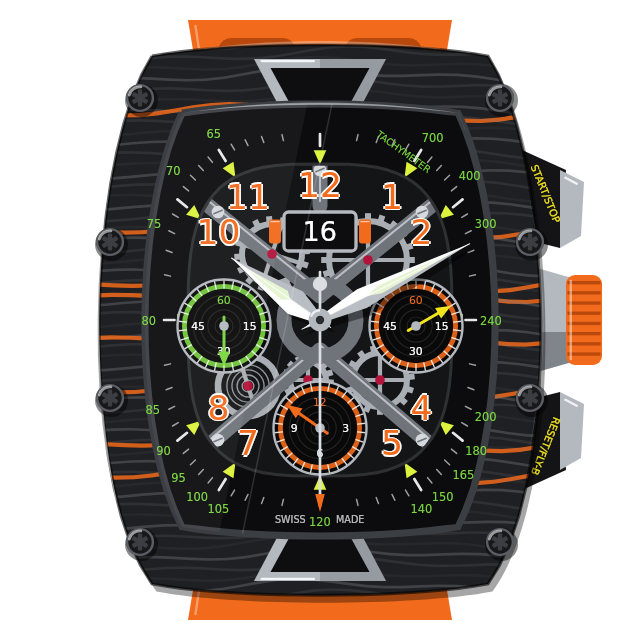
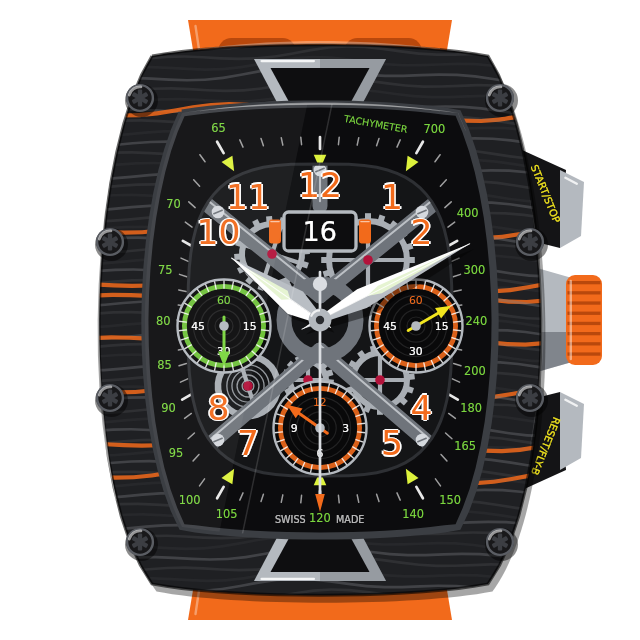
fix(ui-builder): keep the racing replica's flange scale on the flange
The tachymeter numbers, minute track and lume plots were placed on a curve
fitted to the crystal's opening, which drifted out over the bezel at the
corners. They are now placed in from the opening itself: the point where a ray
from the centre meets the crystal's outline, inset square to that edge.

Claude-Session: https://claude.ai/code/session_01GREeWJxC3A574Zfs1zCvSb

diff --git a/ui-builder/src/jvmMain/kotlin/ee/schimke/composeai/uibuilder/preview/RacingChronographReplica.kt b/ui-builder/src/jvmMain/kotlin/ee/schimke/composeai/uibuilder/preview/RacingChronographReplica.kt
@@ -312,6 +312,36 @@ private fun superellipsePath(rx: Double, ry: Double, n: Double = 3.2): String =
     .mapIndexed { index, (x, y) -> (if (index == 0) "M" else "L") + "${x.d()} ${y.d()}" }
     .joinToString(" ", postfix = " Z")
 
+/**
+ * The point [inset] in from the crystal's edge, on the ray from the centre at [degrees] clockwise
+ * from twelve.
+ *
+ * Found on [CRYSTAL_OUTLINE] itself, so whatever sits on the flange follows the opening it is seen
+ * through: a curve fitted to the opening instead drifted out over the bezel at the corners. The
+ * inset is measured square to the edge, not along the ray, so it holds at the corners too.
+ */
+private fun onCrystal(degrees: Double, inset: Double): Pair<Double, Double> {
+  val a = degrees * PI / 180
+  val dx = sin(a)
+  val dy = -cos(a)
+  var best = Double.MAX_VALUE
+  var slope = 1.0
+  CRYSTAL_OUTLINE.zipWithNext().forEach { (p, q) ->
+    val ex = q.first - p.first
+    val ey = q.second - p.second
+    val det = dx * ey - dy * ex
+    if (abs(det) < 1e-9) return@forEach
+    val t = ((p.first - C) * ey - (p.second - C) * ex) / det
+    val u = ((p.first - C) * dy - (p.second - C) * dx) / det
+    if (t > 0 && u in 0.0..1.0 && t < best) {
+      best = t
+      slope = abs(dx * ey - dy * ex) / hypot(ex, ey)
+    }
+  }
+  val along = inset / slope.coerceAtLeast(0.45)
+  return (C + dx * (best - along)) to (C + dy * (best - along))
+}
+
 private fun ClockCanvas.flange() {
   path("racing-flange", CRYSTAL, argb(FLANGE))
   band("racing-flange-bevel", CRYSTAL_OUTLINE, 2.4, argb("#FF3B3E43"), taper = false)
@@ -319,8 +349,8 @@ private fun ClockCanvas.flange() {
   // Minute track: sixty ticks round the tonneau, longer at the fives.
   (0 until 60).forEach { tick ->
     val major = tick % 5 == 0
-    val (x1, y1) = onTonneau(tick * 6.0, 52.0, 62.0)
-    val (x2, y2) = onTonneau(tick * 6.0, if (major) 48.5 else 50.0, if (major) 58.0 else 60.0)
+    val (x1, y1) = onCrystal(tick * 6.0, 11.0)
+    val (x2, y2) = onCrystal(tick * 6.0, if (major) 15.0 else 13.5)
     line(
       "racing-track-$tick",
       x1 to y1,
@@ -334,11 +364,12 @@ private fun ClockCanvas.flange() {
   listOf(700, 400, 300, 240, 200, 180, 165, 150, 140, 120, 105, 100, 95, 90, 85, 80, 75, 70, 65)
     .forEach { speed ->
       val seconds = 3600.0 / speed
-      val (x, y) = onTonneau(seconds * 6, 57.0, 67.0)
+      val (x, y) = onCrystal(seconds * 6, 6.2)
       label("racing-tachy-$speed", text("$speed"), x, y, 3.8, argb(TACHY))
     }
-  turned("racing-tachymeter-words", "36", 128.0, 44.0) {
-    label("racing-tachymeter", text("TACHYMETER"), 128, 44, 3.2, argb(TACHY))
+  val (wordsX, wordsY) = onCrystal(16.0, 6.2)
+  turned("racing-tachymeter-words", "10", wordsX, wordsY) {
+    label("racing-tachymeter", text("TACHYMETER"), wordsX, wordsY, 3.2, argb(TACHY))
   }
   label(
     "racing-swiss",
@@ -352,7 +383,7 @@ private fun ClockCanvas.flange() {
   )
   // Lume plots at the hours, pointing in.
   (0 until 12).forEach { hour ->
-    val (px, py) = onTonneau(hour * 30.0, 46.0, 55.0)
+    val (px, py) = onCrystal(hour * 30.0, 18.5)
     val length = hypot(C - px, C - py)
     val dx = (C - px) / length
     val dy = (C - py) / length
